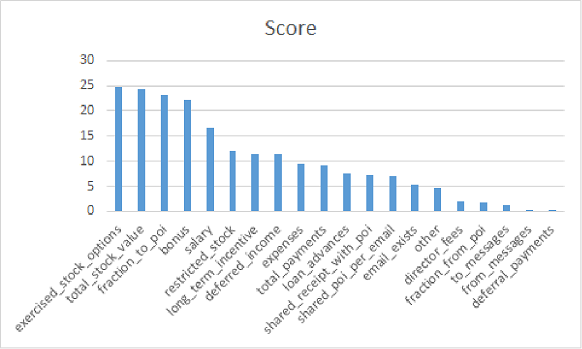
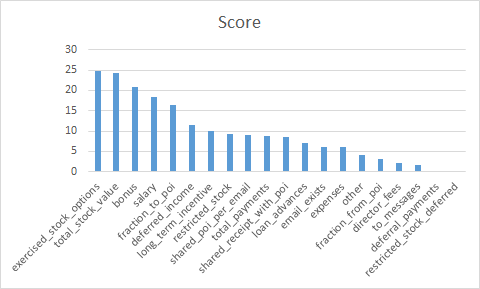
Add files via upload

Changed region(s): [[0.0312, 0.218, 0.9688, 0.9654], [0.125, 0.1557, 0.9688, 0.1869], [0.4375, 0.0623, 0.5625, 0.1246]]

diff --git a/Project 6/UPD PROJECT/Enron_Data_Analysis.html b/Project 6/UPD PROJECT/Enron_Data_Analysis.html
@@ -11879,29 +11879,13 @@ for outlier in outliers:
    8.58942073   1.64634113   5.24344971   0.16970095   2.38261211
    8.58942073  16.40971255]</p>
 
-<pre><code>variable    score
+<pre><code>Features:['salary', 'deferral_payments', 'total_payments', 'loan_advances', 'bonus', 'restricted_stock_deferred', 'deferred_income', 'total_stock_value', 'expenses', 'exercised_stock_options', 'other', 'long_term_incentive', 'restricted_stock', 'director_fees', 'to_messages', 'email_exists', 'fraction_from_poi', 'fraction_to_poi', 'shared_poi_per_email', 'from_messages', 'shared_receipt_with_poi'] and Score: [ 18.28968404   0.22461127   8.77277773   7.18405566  20.79225205
 </code></pre>
-<p>1    exercised_stock_options    24.72
-2    total_stock_value    24.4
-3    fraction_to_poi    22.98
-4    bonus    22.07
-5    salary    16.54
-6    restricted_stock    12.12
-7    long_term_incentive    11.32
-8    deferred_income    11.26
-9    expenses    9.41
-10    total_payments    9.24
-11    loan_advances    7.49
-12    shared_receipt_with_poi    7.2
-13    shared_poi_per_email    6.96
-14    email_exists    5.35
-15    other    4.62
-16    director_fees    2.02
-17    fraction_from_poi    1.84
-18    to_messages    1.35
-19    from_messages    0.15
-20    deferral_payments    0.09</p>
-<p>Then using the SelectKBest function in sklearn.feature_selection module, I got the highest 20 features and their scores. ‘fraction_to_poi’ ranks the 3th, ‘shared_poi_per_email’, ‘email_exists’ and ‘fraction_from_poi’ in the 13th, 14th and 17th place, respectively.</p>
+<p>0.06549965  11.45847658  24.18289868   6.09417331  24.81507973
+   4.18747751   9.92218601   9.21281062   2.1263278    1.64634113
+   6.10692533   3.12809175  16.40971255   9.10126874   0.16970095
+   8.58942073]</p>
+<p>Then using the SelectKBest function in sklearn.feature_selection module.</p>
 <p>As observed from the chart below the Score of the variables is continuously decreasing we have scores high as 25 and low as 1 therefore we are using SelectKBest features to fetch the best features. SelectKBest are used since it finds the best features according to the dataset.</p>
 
 </div>

diff --git a/Project 6/UPD PROJECT/final_project/poi_id.py b/Project 6/UPD PROJECT/final_project/poi_id.py
@@ -105,7 +105,8 @@ def get_k_best(data_dict, my_feature_list, k):
     sorted_pairs = list(reversed(sorted(unsorted_pairs, key=lambda x: x[1])))
     k_best_features = dict(sorted_pairs[:k])
     print "{0} best features: {1}\n".format(k, k_best_features.keys())
-    print scores
+    
+    print "Features:{0} and Score: {1}".format(features_list[1:], scores)
     return k_best_features
 
 
